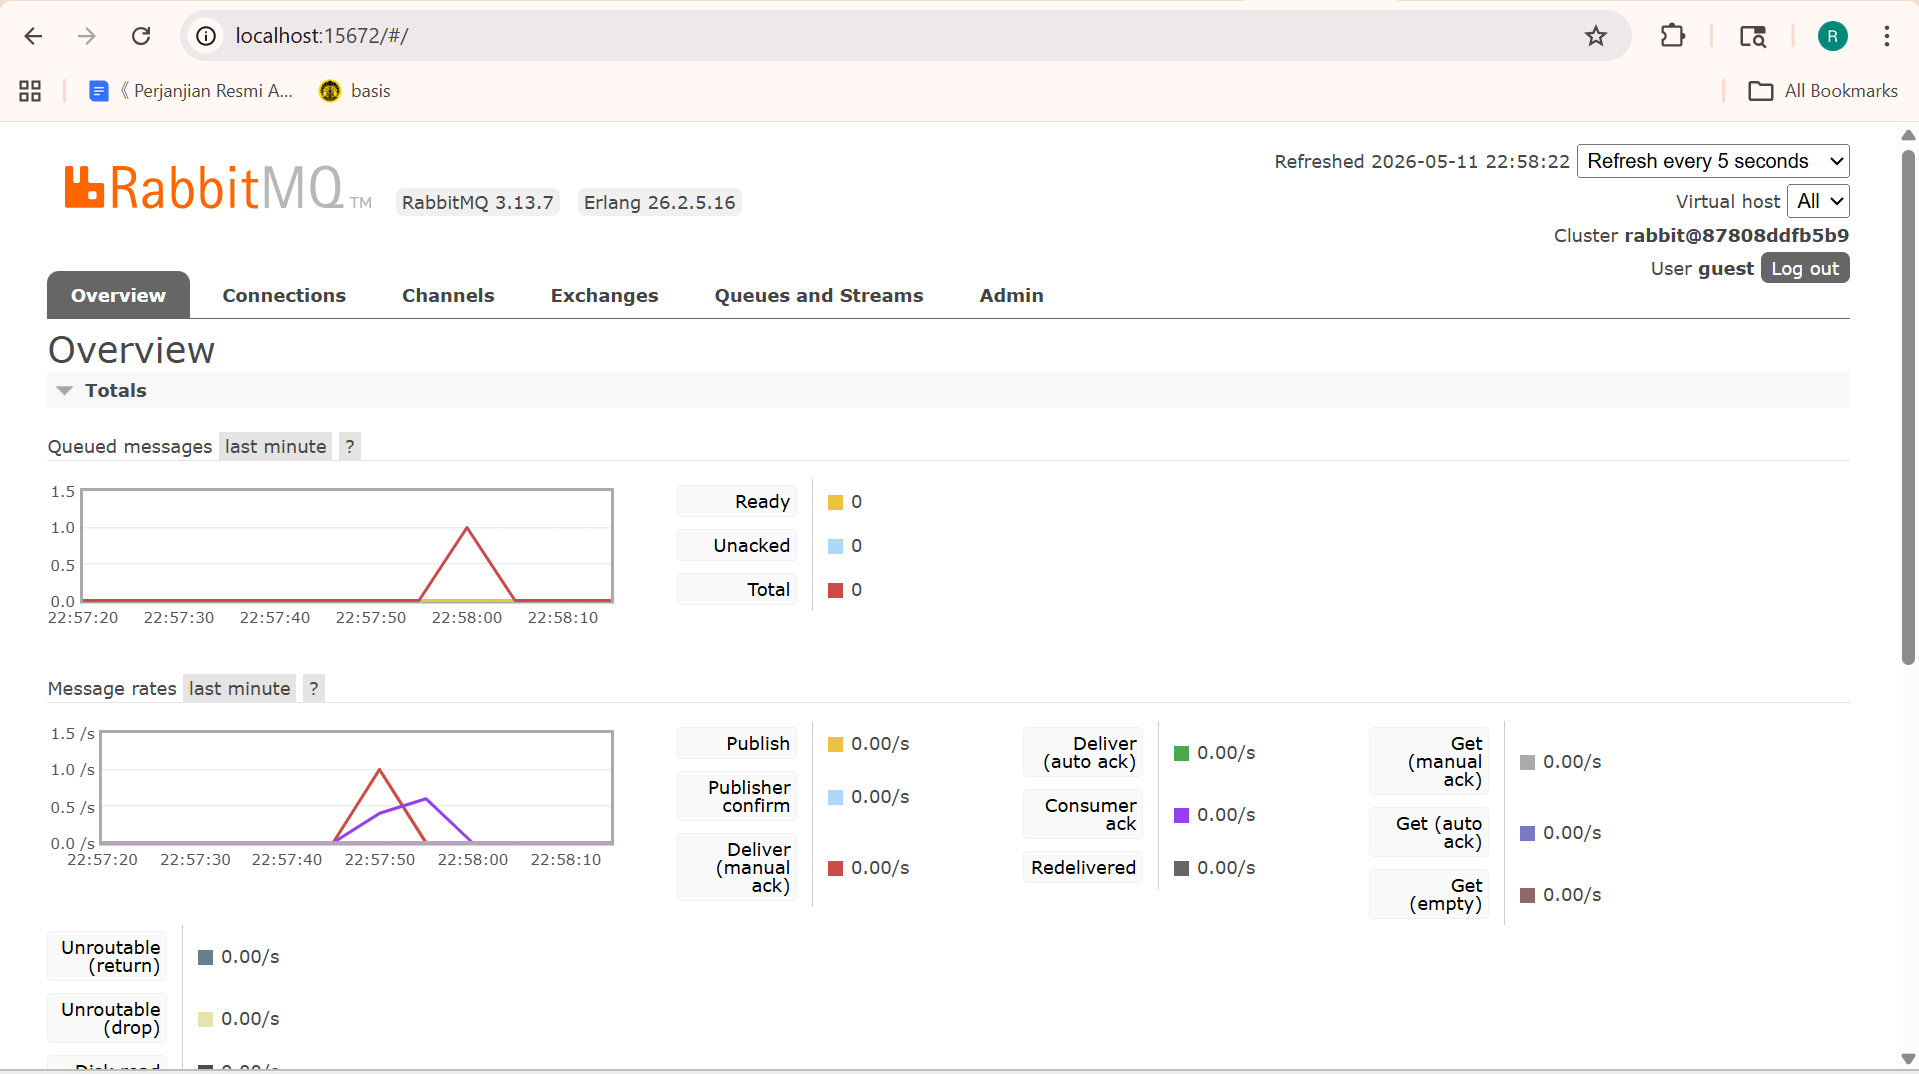
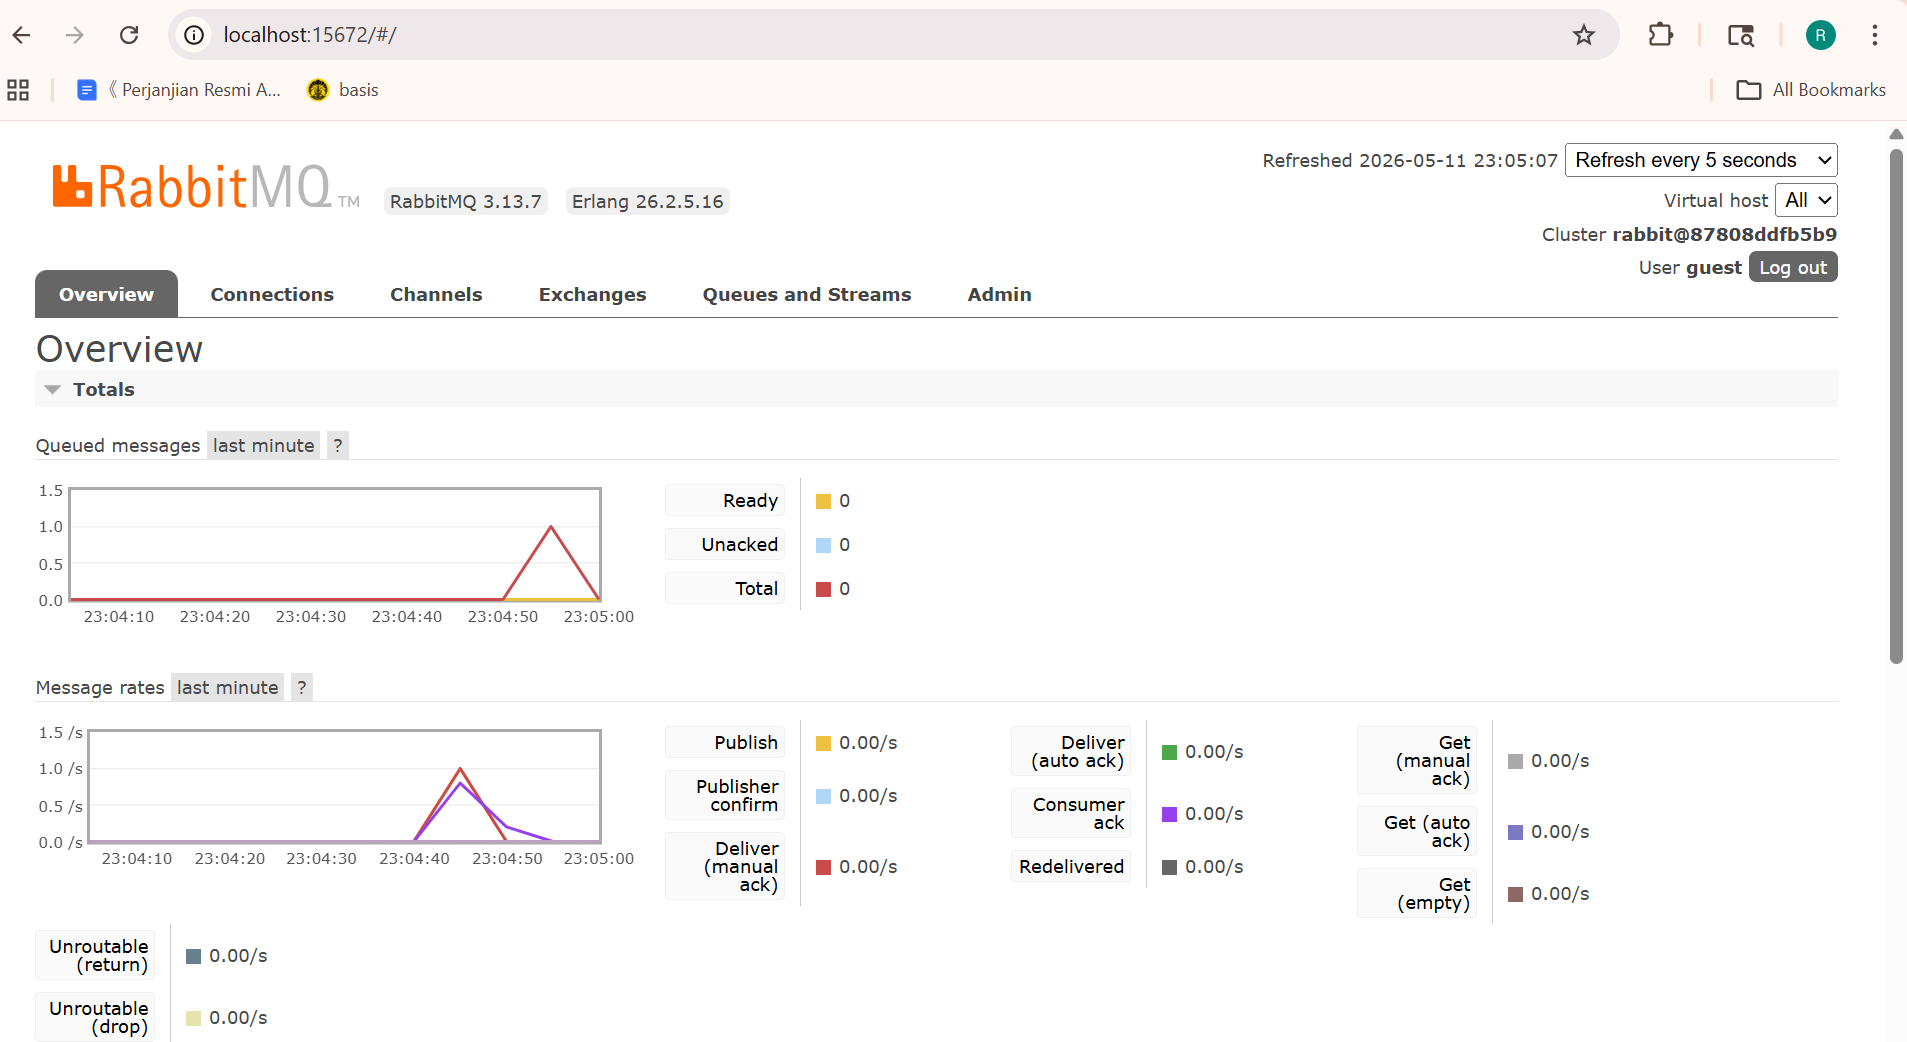
Bonus: Running on cloud

diff --git a/src/main.rs b/src/main.rs
@@ -1,5 +1,6 @@
 use borsh::{BorshDeserialize, BorshSerialize};
 use crosstown_bus::{CrosstownBus, MessageHandler, HandleError};
+use dotenv::dotenv;
 
 #[derive(Debug, Clone, BorshDeserialize, BorshSerialize)]
 pub struct UserCreatedEventMessage {
@@ -21,9 +22,12 @@ impl MessageHandler<UserCreatedEventMessage> for UserCreatedHandler {
 }
 
 fn main() {
-    let mut p = CrosstownBus::new_queue_publisher(
-        "amqp://guest:guest@localhost:5672".to_owned()
-    ).unwrap();
+    dotenv::dotenv().ok();
+    let amqp_url = std::env::var("AMQP_URL").unwrap_or_else(|_| "amqp://guest:guest@localhost:5672".into());
+    println!("Connecting to RabbitMQ Broker...");
+    let mut p = CrosstownBus::new_queue_publisher(amqp_url).unwrap();
+    println!("Connected successfully! Publishing 5 messages...");
+    
     _ = p.publish_event("user_created".to_owned(), UserCreatedEventMessage {
         user_id: "1".to_owned(), user_name: "2406495445-Amir".to_owned() });
     _ = p.publish_event("user_created".to_owned(), UserCreatedEventMessage {

diff --git a/README.md b/README.md
@@ -38,4 +38,28 @@ Menunjukkan proses subscriber saat melakukan koneksi ke message broker.
 Menunjukkan adanya lonjakan (spike) pada grafik statistik RabbitMQ saat pesan dikirimkan dan diproses.
 ![RabbitMQ Spike](assets/images/spikesonthesecondchart.png)
 
+---
 
+# Bonus: Running on Cloud
+
+## Screenshot RabbitMQ Web UI di Cloud 
+![Running 3 subscribers on Cloud (RabbitMQ Web UI)](assets/images/bonus3s1prabbitmq.png)
+
+Pada tampilan RabbitMQ Management yang di-host pada Railway, broker berhasil berjalan dan dapat diakses melalui URL 'rabbitmq-web-ui-production-b12e.up.railway.app'. Terlihat pada bagian global counts terdapat 'Connections: 3, 'Exchanges: 10', dan 'Queues: 2', yang menunjukkan bahwa ketiga subscriber telah berhasil terkoneksi secara bersamaan ke RabbitMQ yang berjalan di cloud. Selain itu, node aktif yang digunakan adalah 'rabbit@rabbitmq', menandakan service RabbitMQ berjalan dengan baik pada environment Railway.
+
+## Screenshot Terminal Menjalankan 3 Subscriber dan 1 Publisher di Cloud
+
+![Running 3 subscribers on Cloud (Terminal)](assets/images/bonus3s1pterminal.png)
+
+Selain itu, distribusi message pada RabbitMQ cloud menunjukkan bahwa mekanisme round-robin berjalan dengan baik. Berdasarkan hasil pada masing-masing terminal subscriber, event dibagikan secara bergantian sebagai berikut:
+
+Terminal 1 menerima:
+'UserCreatedEventMessage { user_id: "3", user_name: "2406495445-Cica" }'
+Terminal 2 menerima:
+'UserCreatedEventMessage { user_id: "1", user_name: "2406495445-Amir" }'
+'UserCreatedEventMessage { user_id: "4", user_name: "2406495445-Dira" }'
+Terminal 3 menerima:
+'UserCreatedEventMessage { user_id: "2", user_name: "2406495445-Budi" }'
+'UserCreatedEventMessage { user_id: "5", user_name: "2406495445-Emir" }'
+
+Hasil tersebut menunjukkan bahwa RabbitMQ berhasil mendistribusikan event ke beberapa subscriber secara bergiliran, sehingga beban pemrosesan queue dapat terbagi lebih merata antar subscriber yang aktif.
